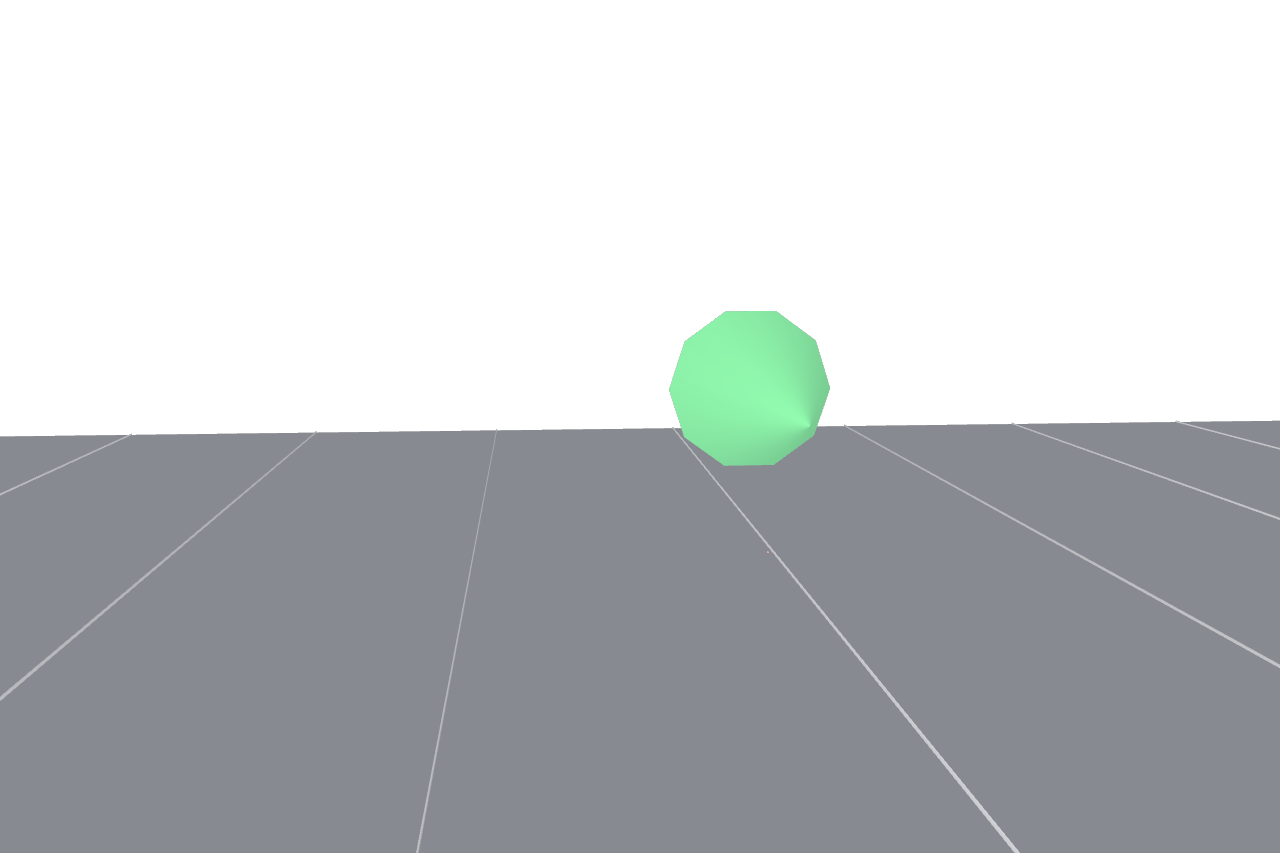
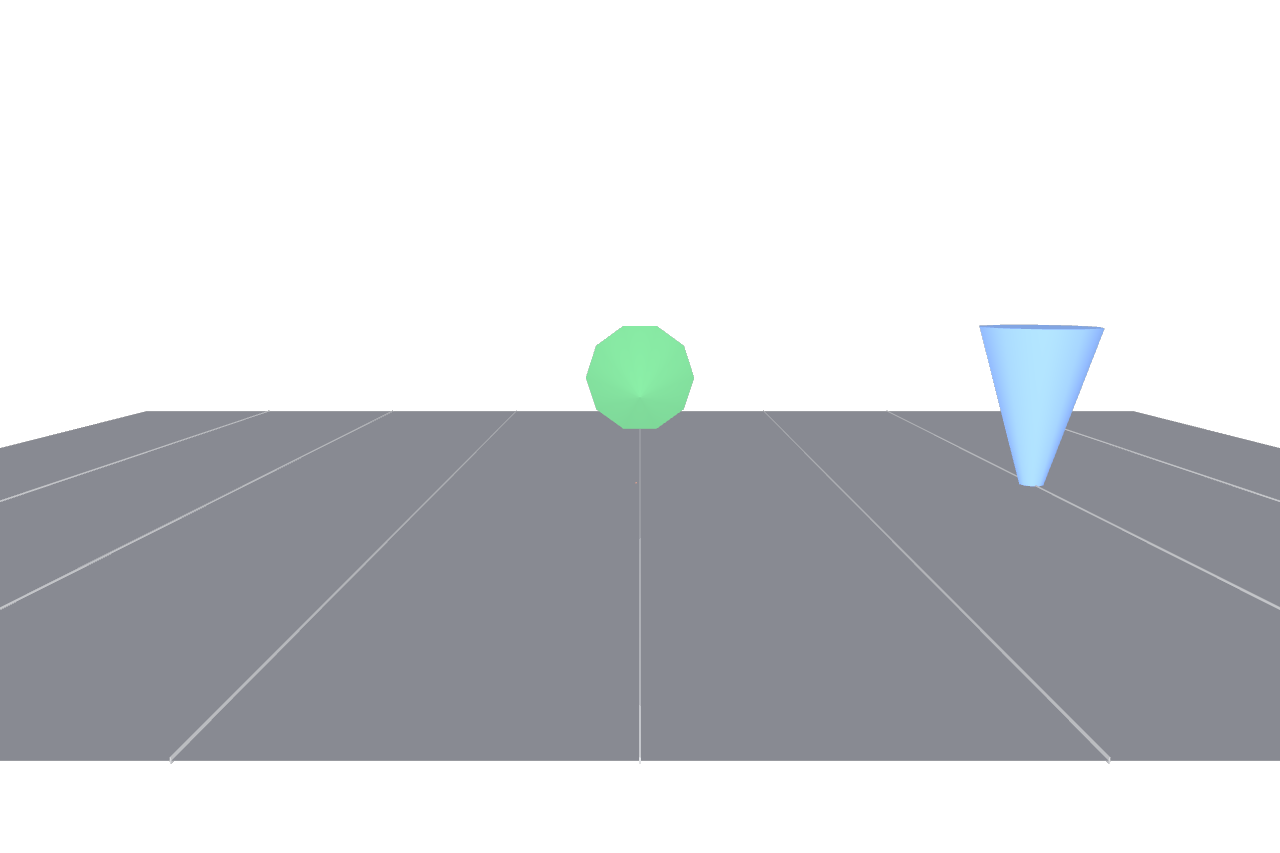
execMetricsUnits: add upAxis correction via NamespaceAncestor
Added upAxis support to the units resolution computation:

- New computeUpAxis helper outputs the prim's metrics:upAxis token
- Main computation reads ancestor's upAxis via NamespaceAncestor
- Z-up prim in Y-up stage: rotates -90° around X
- Y-up prim in Z-up stage: rotates +90° around X
- Rotation applied before scale correction (post-multiply on L2W)

Updated cone demo scenes to include all three cases:
- CorrectCone: cm, Y-up (matches stage) — green, upright
- MeterCone: meters in cm stage — orange, was tiny speck → now full-size
- ZUpCone: Z-up in Y-up stage — blue, was on its side → now upright

Both corrections use pure OpenExec NamespaceAncestor traversal.
Stage context declared via GeomMetricsAPI on root World prim.
No env vars, no stage metadata access.

diff --git a/extras/exec/examples/metricsUnits/execMetricsUnits.cpp b/extras/exec/examples/metricsUnits/execMetricsUnits.cpp
@@ -1,17 +1,15 @@
 //
 // execMetricsUnits.cpp — Unit-aware transform computation using MetricsAPI.
 //
-// Reads metersPerUnit from UsdGeomMetricsAPI (via metrics:metersPerUnit
-// attribute) and corrects the transform relative to the nearest ancestor
-// that also declares metersPerUnit.
+// Corrects transforms for prims with mismatched units (metersPerUnit)
+// and/or up-axis orientation (upAxis) relative to the stage context.
 //
 // The computation:
 // 1. Reads computeLocalToWorldTransform from execGeom (same prim)
-// 2. Reads metrics:metersPerUnit from this prim (via GeomMetricsAPI)
-// 3. Reads the nearest ancestor's metersPerUnit via NamespaceAncestor
-//    (typically the stage root prim with GeomMetricsAPI applied)
-// 4. Applies uniform scaling by (primMPU / ancestorMPU) to position
-//    and the upper-left 3x3 of the L2W matrix.
+// 2. Reads metrics:metersPerUnit and metrics:upAxis from this prim
+// 3. Reads the nearest ancestor's values via NamespaceAncestor
+// 4. Applies up-axis rotation (if mismatched) then uniform scaling
+//    (if metersPerUnit differs) to the L2W matrix.
 //
 // No stage metadata access needed — everything is declared in-scene
 // via GeomMetricsAPI applied to the root prim and individual assets.
@@ -25,6 +23,7 @@
 #include "pxr/exec/vdf/context.h"
 
 #include "pxr/base/gf/matrix4d.h"
+#include "pxr/base/gf/rotation.h"
 #include "pxr/base/gf/vec3d.h"
 #include "pxr/base/tf/staticTokens.h"
 #include "pxr/base/tf/token.h"
@@ -34,26 +33,35 @@ PXR_NAMESPACE_USING_DIRECTIVE
 TF_DEFINE_PRIVATE_TOKENS(
     _tokens,
 
-    // Our computation names
+    // Computation names
     (computeUnitAwareLocalToWorldTransform)
     (computeMetersPerUnit)
+    (computeUpAxis)
 
     // The standard L2W from execGeom
     (computeLocalToWorldTransform)
 
-    // MetricsAPI attribute (from GeomMetricsAPI schema)
+    // MetricsAPI attributes (from GeomMetricsAPI schema)
     ((metersPerUnit, "metrics:metersPerUnit"))
+    ((upAxis, "metrics:upAxis"))
 
-    // Input name for ancestor's metersPerUnit
+    // Input names for ancestor values
     (ancestorMetersPerUnit)
+    (ancestorUpAxis)
+
+    // Up-axis tokens
+    (Y)
+    (Z)
 );
 
-// USD default: centimeters (metersPerUnit = 0.01)
-static constexpr double _USD_DEFAULT_METERS_PER_UNIT = 0.01;
+// USD defaults
+static constexpr double _USD_DEFAULT_METERS_PER_UNIT = 0.01;  // centimeters
+static const TfToken &_USD_DEFAULT_UP_AXIS = _tokens->Y;
 
 
-// Helper computation: outputs this prim's metersPerUnit.
-// Allows NamespaceAncestor to walk up and find the nearest ancestor's MPU.
+// ── Helper computations ─────────────────────────────────────────────────
+
+// Outputs this prim's metersPerUnit for NamespaceAncestor traversal.
 static double
 _ComputeMetersPerUnit(const VdfContext &ctx)
 {
@@ -63,10 +71,71 @@ _ComputeMetersPerUnit(const VdfContext &ctx)
     if (mpuPtr && *mpuPtr > 0.0) {
         return *mpuPtr;
     }
-
     return _USD_DEFAULT_METERS_PER_UNIT;
 }
 
+// Outputs this prim's upAxis for NamespaceAncestor traversal.
+static TfToken
+_ComputeUpAxis(const VdfContext &ctx)
+{
+    const TfToken *const upAxisPtr =
+        ctx.GetInputValuePtr<TfToken>(_tokens->upAxis);
+
+    if (upAxisPtr && !upAxisPtr->IsEmpty()) {
+        return *upAxisPtr;
+    }
+    return _USD_DEFAULT_UP_AXIS;
+}
+
+
+// ── Up-axis rotation matrices ───────────────────────────────────────────
+//
+// Z-up → Y-up: rotate -90° around X
+//   X →  X,  Y → Z,  Z → -Y  (but we want Z→Y so it's +Z maps to +Y)
+//
+//   [ 1   0   0   0 ]
+//   [ 0   0  -1   0 ]     (cos(-90)=0, sin(-90)=-1)
+//   [ 0   1   0   0 ]
+//   [ 0   0   0   1 ]
+//
+// Y-up → Z-up: rotate +90° around X (the inverse)
+//
+//   [ 1   0   0   0 ]
+//   [ 0   0   1   0 ]
+//   [ 0  -1   0   0 ]
+//   [ 0   0   0   1 ]
+//
+
+// Returns the rotation matrix to convert from primUpAxis to stageUpAxis.
+// Returns identity if no conversion needed.
+static GfMatrix4d
+_GetUpAxisCorrectionMatrix(const TfToken &primUpAxis, const TfToken &stageUpAxis)
+{
+    if (primUpAxis == stageUpAxis) {
+        return GfMatrix4d(1.0);
+    }
+
+    if (primUpAxis == _tokens->Z && stageUpAxis == _tokens->Y) {
+        // Z-up prim in Y-up stage: rotate -90° around X
+        // This maps: +Z → +Y (up), +Y → -Z (forward flip)
+        GfMatrix4d rot(1.0);
+        rot.SetRotate(GfRotation(GfVec3d(1, 0, 0), -90.0));
+        return rot;
+    }
+
+    if (primUpAxis == _tokens->Y && stageUpAxis == _tokens->Z) {
+        // Y-up prim in Z-up stage: rotate +90° around X
+        GfMatrix4d rot(1.0);
+        rot.SetRotate(GfRotation(GfVec3d(1, 0, 0), 90.0));
+        return rot;
+    }
+
+    // Unknown combination — no correction
+    return GfMatrix4d(1.0);
+}
+
+
+// ── Main computation ────────────────────────────────────────────────────
 
 static GfMatrix4d
 _ComputeUnitAwareLocalToWorldTransform(const VdfContext &ctx)
@@ -82,26 +151,46 @@ _ComputeUnitAwareLocalToWorldTransform(const VdfContext &ctx)
 
     GfMatrix4d result = *localToWorldPtr;
 
-    // Get prim's metersPerUnit from GeomMetricsAPI
+    // ── Up-axis correction ──────────────────────────────────────────
+
+    TfToken primUpAxis = _USD_DEFAULT_UP_AXIS;
+    TfToken stageUpAxis = _USD_DEFAULT_UP_AXIS;
+
+    const TfToken *const primUpAxisPtr =
+        ctx.GetInputValuePtr<TfToken>(_tokens->upAxis);
+    if (primUpAxisPtr && !primUpAxisPtr->IsEmpty()) {
+        primUpAxis = *primUpAxisPtr;
+    }
+
+    const TfToken *const ancestorUpAxisPtr =
+        ctx.GetInputValuePtr<TfToken>(_tokens->ancestorUpAxis);
+    if (ancestorUpAxisPtr && !ancestorUpAxisPtr->IsEmpty()) {
+        stageUpAxis = *ancestorUpAxisPtr;
+    }
+
+    if (primUpAxis != stageUpAxis) {
+        // Apply rotation correction.
+        // Pre-multiply: correctedL2W = rotationMatrix * rawL2W
+        // This rotates the prim's entire coordinate frame to match
+        // the stage's up-axis convention.
+        GfMatrix4d rotation = _GetUpAxisCorrectionMatrix(primUpAxis, stageUpAxis);
+        result = result * rotation;
+    }
+
+    // ── Scale correction ────────────────────────────────────────────
+
     const double *const primMpuPtr =
-        ctx.GetInputValuePtr<double>(
-            _tokens->metersPerUnit);
+        ctx.GetInputValuePtr<double>(_tokens->metersPerUnit);
 
     if (!primMpuPtr || *primMpuPtr <= 0.0) {
-        return result;  // No metrics — return raw transform
+        return result;  // No metersPerUnit — return (possibly rotated) transform
     }
 
     const double primMpu = *primMpuPtr;
 
-    // Get the stage/ancestor metersPerUnit via NamespaceAncestor.
-    // This walks up the prim hierarchy to find the nearest ancestor
-    // with GeomMetricsAPI that provides computeMetersPerUnit.
-    // If no ancestor declares it, fall back to USD default (0.01 = cm).
     double stageMpu = _USD_DEFAULT_METERS_PER_UNIT;
-
     const double *const ancestorMpuPtr =
         ctx.GetInputValuePtr<double>(_tokens->ancestorMetersPerUnit);
-
     if (ancestorMpuPtr && *ancestorMpuPtr > 0.0) {
         stageMpu = *ancestorMpuPtr;
     }
@@ -110,17 +199,10 @@ _ComputeUnitAwareLocalToWorldTransform(const VdfContext &ctx)
         return result;  // No conversion needed
     }
 
-    // Apply UNIFORM scaling — both translation and the upper-left 3x3.
+    // Apply uniform scaling — both translation and the upper-left 3x3.
     //
-    // A prim authored in meters referenced into a centimeter stage:
-    //   primMPU = 1.0, stageMPU = 0.01 → scale = 100
-    //   translate (−2, 0.5, 0) × 100 = (−200, 50, 0) cm
-    //   3×3 scaled 100× → 1m cone appears as 100cm ✓
-    //
-    // A prim authored in cm referenced into a meter stage:
-    //   primMPU = 0.01, stageMPU = 1.0 → scale = 0.01
-    //   translate (100, 0, 50) × 0.01 = (1, 0, 0.5) m
-    //   3×3 scaled 0.01× → 100cm cone appears as 1m ✓
+    // Meter prim (1.0) in cm stage (0.01): scale = 100× (up)
+    // Cm prim (0.01) in meter stage (1.0): scale = 0.01× (down)
     const double scale = primMpu / stageMpu;
 
     // Scale the upper-left 3x3 (rotation + scale components)
@@ -139,19 +221,25 @@ _ComputeUnitAwareLocalToWorldTransform(const VdfContext &ctx)
 }
 
 
-// Register on GeomMetricsAPI — only runs for prims with the schema applied
+// ── Registration ────────────────────────────────────────────────────────
+
 EXEC_REGISTER_COMPUTATIONS_FOR_SCHEMA(UsdMetricsGeomMetricsAPI)
 {
-    // Helper computation: outputs this prim's metersPerUnit.
-    // Used by NamespaceAncestor to provide ancestor context.
+    // Helper: outputs this prim's metersPerUnit for ancestor traversal
     self.PrimComputation(_tokens->computeMetersPerUnit)
         .Callback<double>(&_ComputeMetersPerUnit)
         .Inputs(
             AttributeValue<double>(_tokens->metersPerUnit)
         );
 
-    // Main computation: corrects the L2W transform based on the ratio
-    // of this prim's metersPerUnit to the nearest ancestor's.
+    // Helper: outputs this prim's upAxis for ancestor traversal
+    self.PrimComputation(_tokens->computeUpAxis)
+        .Callback<TfToken>(&_ComputeUpAxis)
+        .Inputs(
+            AttributeValue<TfToken>(_tokens->upAxis)
+        );
+
+    // Main computation: corrects L2W for up-axis and scale mismatches
     self.PrimComputation(_tokens->computeUnitAwareLocalToWorldTransform)
         .Callback<GfMatrix4d>(&_ComputeUnitAwareLocalToWorldTransform)
         .Inputs(
@@ -163,9 +251,18 @@ EXEC_REGISTER_COMPUTATIONS_FOR_SCHEMA(UsdMetricsGeomMetricsAPI)
             AttributeValue<double>(
                 _tokens->metersPerUnit),
 
-            // Nearest ancestor's metersPerUnit (via NamespaceAncestor)
+            // upAxis from GeomMetricsAPI (prim attribute)
+            AttributeValue<TfToken>(
+                _tokens->upAxis),
+
+            // Nearest ancestor's metersPerUnit
             NamespaceAncestor<double>(
                 _tokens->computeMetersPerUnit)
-                .InputName(_tokens->ancestorMetersPerUnit)
+                .InputName(_tokens->ancestorMetersPerUnit),
+
+            // Nearest ancestor's upAxis
+            NamespaceAncestor<TfToken>(
+                _tokens->computeUpAxis)
+                .InputName(_tokens->ancestorUpAxis)
         );
 }
